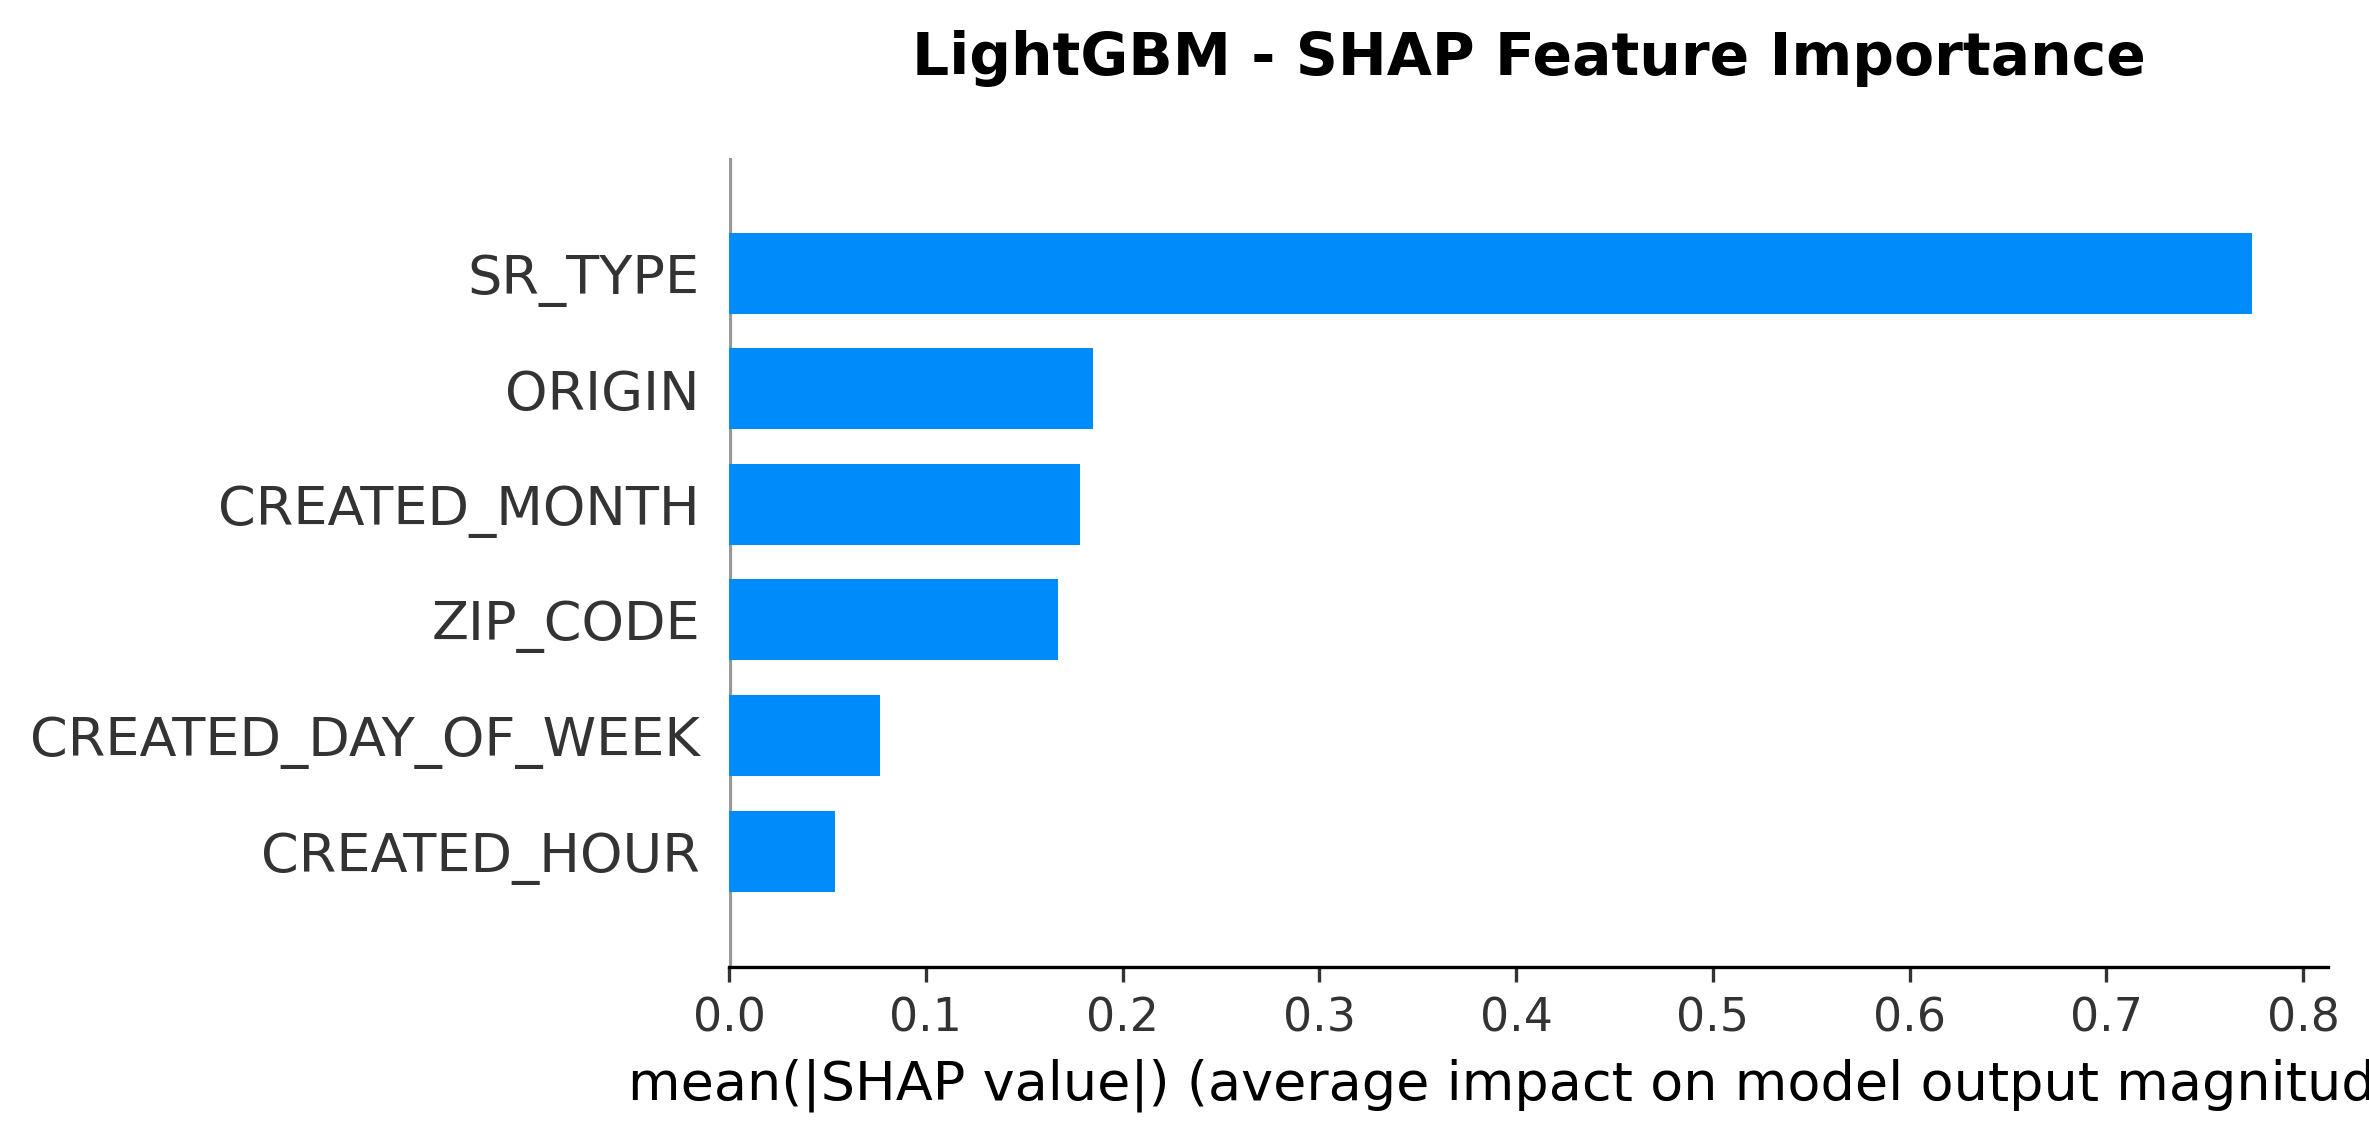
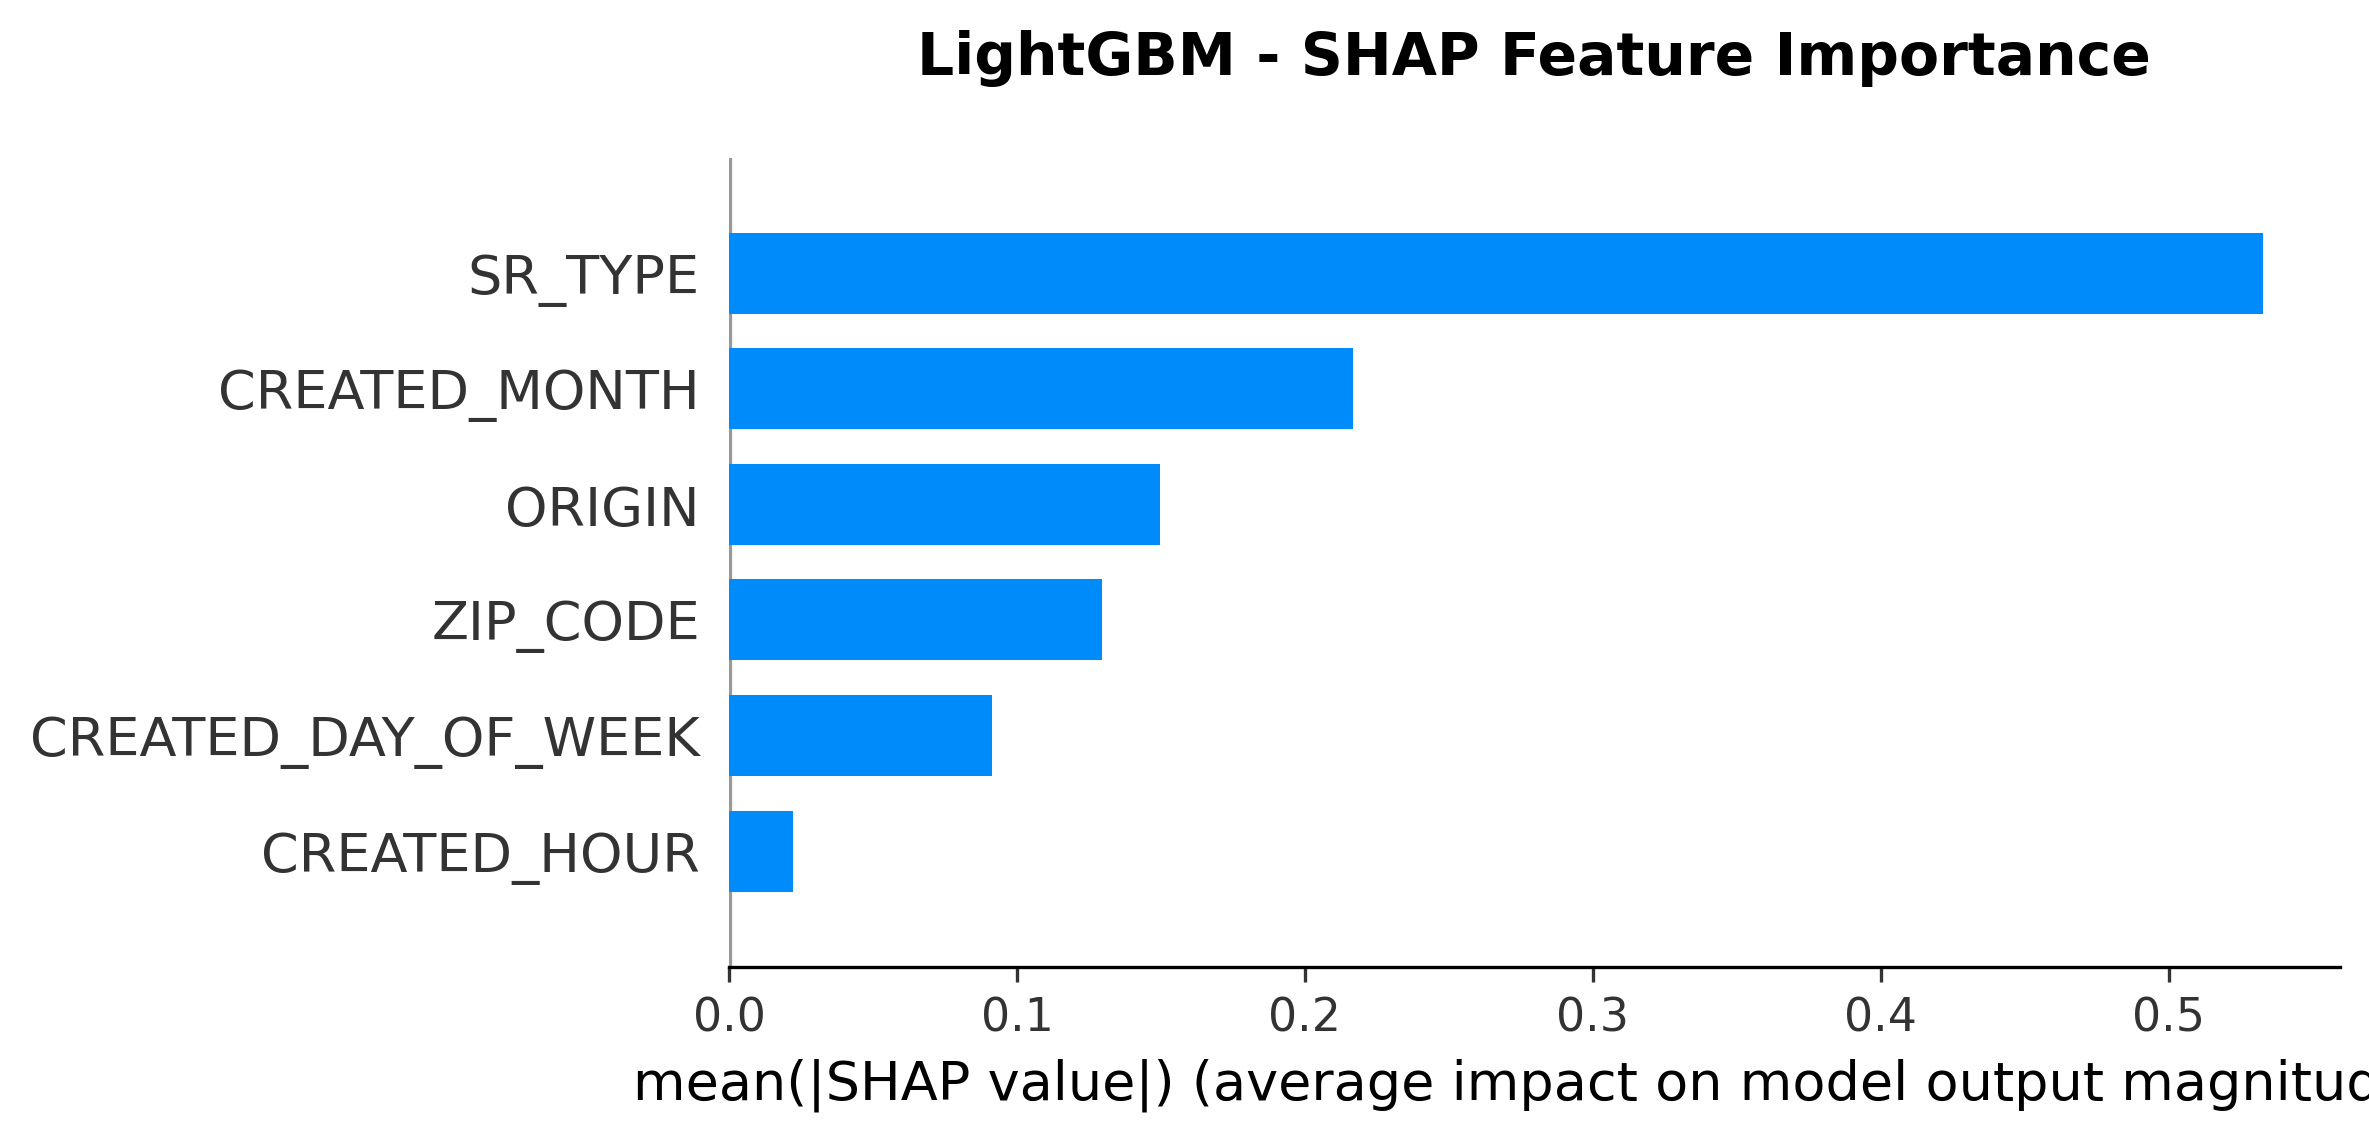
updated some results on current run + added ablation study

diff --git a/scripts/ablation_study.py b/scripts/ablation_study.py
@@ -1,0 +1,150 @@
+"""
+Feature Ablation Study
+Systematically removes feature groups to measure their contribution to model performance.
+"""
+
+import pandas as pd
+import numpy as np
+from pathlib import Path
+import sys
+
+# Add parent directory to path
+sys.path.append(str(Path(__file__).parent.parent))
+
+from src.processes.temporal_split import load_and_split_data
+from src.methods.random_forest_model import prepare_features_rf, train_random_forest_model, predict_random_forest, encode_test_features
+from src.methods.evaluation import evaluate_with_predictions
+
+
+def run_ablation_experiment(train_df, test_df, y_test, categorical_cols, numeric_cols,
+                            experiment_name):
+    """Run Random Forest with specific feature subset."""
+    print(f"\nRunning: {experiment_name}")
+    print(f"  Categorical: {categorical_cols}")
+    print(f"  Numeric: {numeric_cols}")
+
+    params = {
+        'n_estimators': 200,
+        'max_depth': 15,
+        'min_samples_split': 100,
+        'min_samples_leaf': 50,
+        'max_features': 0.6,
+        'bootstrap': True,
+        'random_state': 42,
+        'n_jobs': -1
+    }
+
+    target_col = 'RESPONSE_TIME_DAYS'
+    y_train_log = np.log1p(train_df[target_col].values)
+
+    X_train, encoders = prepare_features_rf(train_df, categorical_cols, numeric_cols)
+    X_test = encode_test_features(test_df[categorical_cols + numeric_cols],
+                                   categorical_cols, encoders)
+
+    model = train_random_forest_model(X_train, y_train_log, params)
+    y_pred_log = predict_random_forest(model, X_test)
+    y_pred = np.expm1(y_pred_log)
+
+    metrics = evaluate_with_predictions(y_test, y_pred, experiment_name)
+    print(f"  MAE: {metrics['mae']:.4f}, RMSE: {metrics['rmse']:.4f}, R²: {metrics['r2']:.6f}")
+
+    return metrics
+
+
+def main():
+    print("\n" + "="*70)
+    print("FEATURE ABLATION STUDY - RANDOM FOREST")
+    print("="*70 + "\n")
+
+    # Load data
+    train_df, _, test_df = load_and_split_data(sample_size=None, use_validation=True)
+    y_test = test_df['RESPONSE_TIME_DAYS'].values
+
+    # Define feature groups
+    all_categorical = ['SR_TYPE', 'ZIP_CODE', 'ORIGIN']
+    all_numeric = ['CREATED_HOUR', 'CREATED_DAY_OF_WEEK', 'CREATED_MONTH']
+
+    ablation_experiments = [
+        {
+            'name': 'Full_Model',
+            'categorical': all_categorical,
+            'numeric': all_numeric
+        },
+        {
+            'name': 'No_SR_TYPE',
+            'categorical': ['ZIP_CODE', 'ORIGIN'],
+            'numeric': all_numeric
+        },
+        {
+            'name': 'No_ZIP_CODE',
+            'categorical': ['SR_TYPE', 'ORIGIN'],
+            'numeric': all_numeric
+        },
+        {
+            'name': 'No_ORIGIN',
+            'categorical': ['SR_TYPE', 'ZIP_CODE'],
+            'numeric': all_numeric
+        },
+        {
+            'name': 'No_Temporal',
+            'categorical': all_categorical,
+            'numeric': []
+        },
+        {
+            'name': 'SR_TYPE_Only',
+            'categorical': ['SR_TYPE'],
+            'numeric': []
+        },
+        {
+            'name': 'ZIP_CODE_Only',
+            'categorical': ['ZIP_CODE'],
+            'numeric': []
+        },
+        {
+            'name': 'Temporal_Only',
+            'categorical': [],
+            'numeric': all_numeric
+        }
+    ]
+
+    results = []
+    for exp in ablation_experiments:
+        metrics = run_ablation_experiment(
+            train_df, test_df, y_test,
+            exp['categorical'], exp['numeric'],
+            exp['name']
+        )
+        results.append(metrics)
+
+    # Save results
+    results_df = pd.DataFrame(results)
+    results_df = results_df.sort_values('mae')
+
+    output_path = Path('results/ablation_results.csv')
+    results_df.to_csv(output_path, index=False)
+
+    print("\n" + "="*70)
+    print("ABLATION STUDY SUMMARY")
+    print("="*70)
+    print(f"\n{'Experiment':<25} {'MAE':<12} {'RMSE':<12} {'R²':<12}")
+    print("-"*70)
+    for _, row in results_df.iterrows():
+        print(f"{row['model_name']:<25} {row['mae']:<12.4f} {row['rmse']:<12.4f} {row['r2']:<12.6f}")
+    print("-"*70)
+
+    # Calculate impact
+    full_model = results_df[results_df['model_name'] == 'Full_Model'].iloc[0]
+    print(f"\n\nFeature Impact Analysis (vs Full Model MAE: {full_model['mae']:.4f}):")
+    print("-"*70)
+    for _, row in results_df.iterrows():
+        if row['model_name'] != 'Full_Model':
+            impact = row['mae'] - full_model['mae']
+            pct_change = (impact / full_model['mae']) * 100
+            print(f"{row['model_name']:<25} +{impact:>6.4f} days (+{pct_change:>5.2f}%)")
+
+    print(f"\n\nResults saved to: {output_path}")
+    print("="*70 + "\n")
+
+
+if __name__ == "__main__":
+    main()
